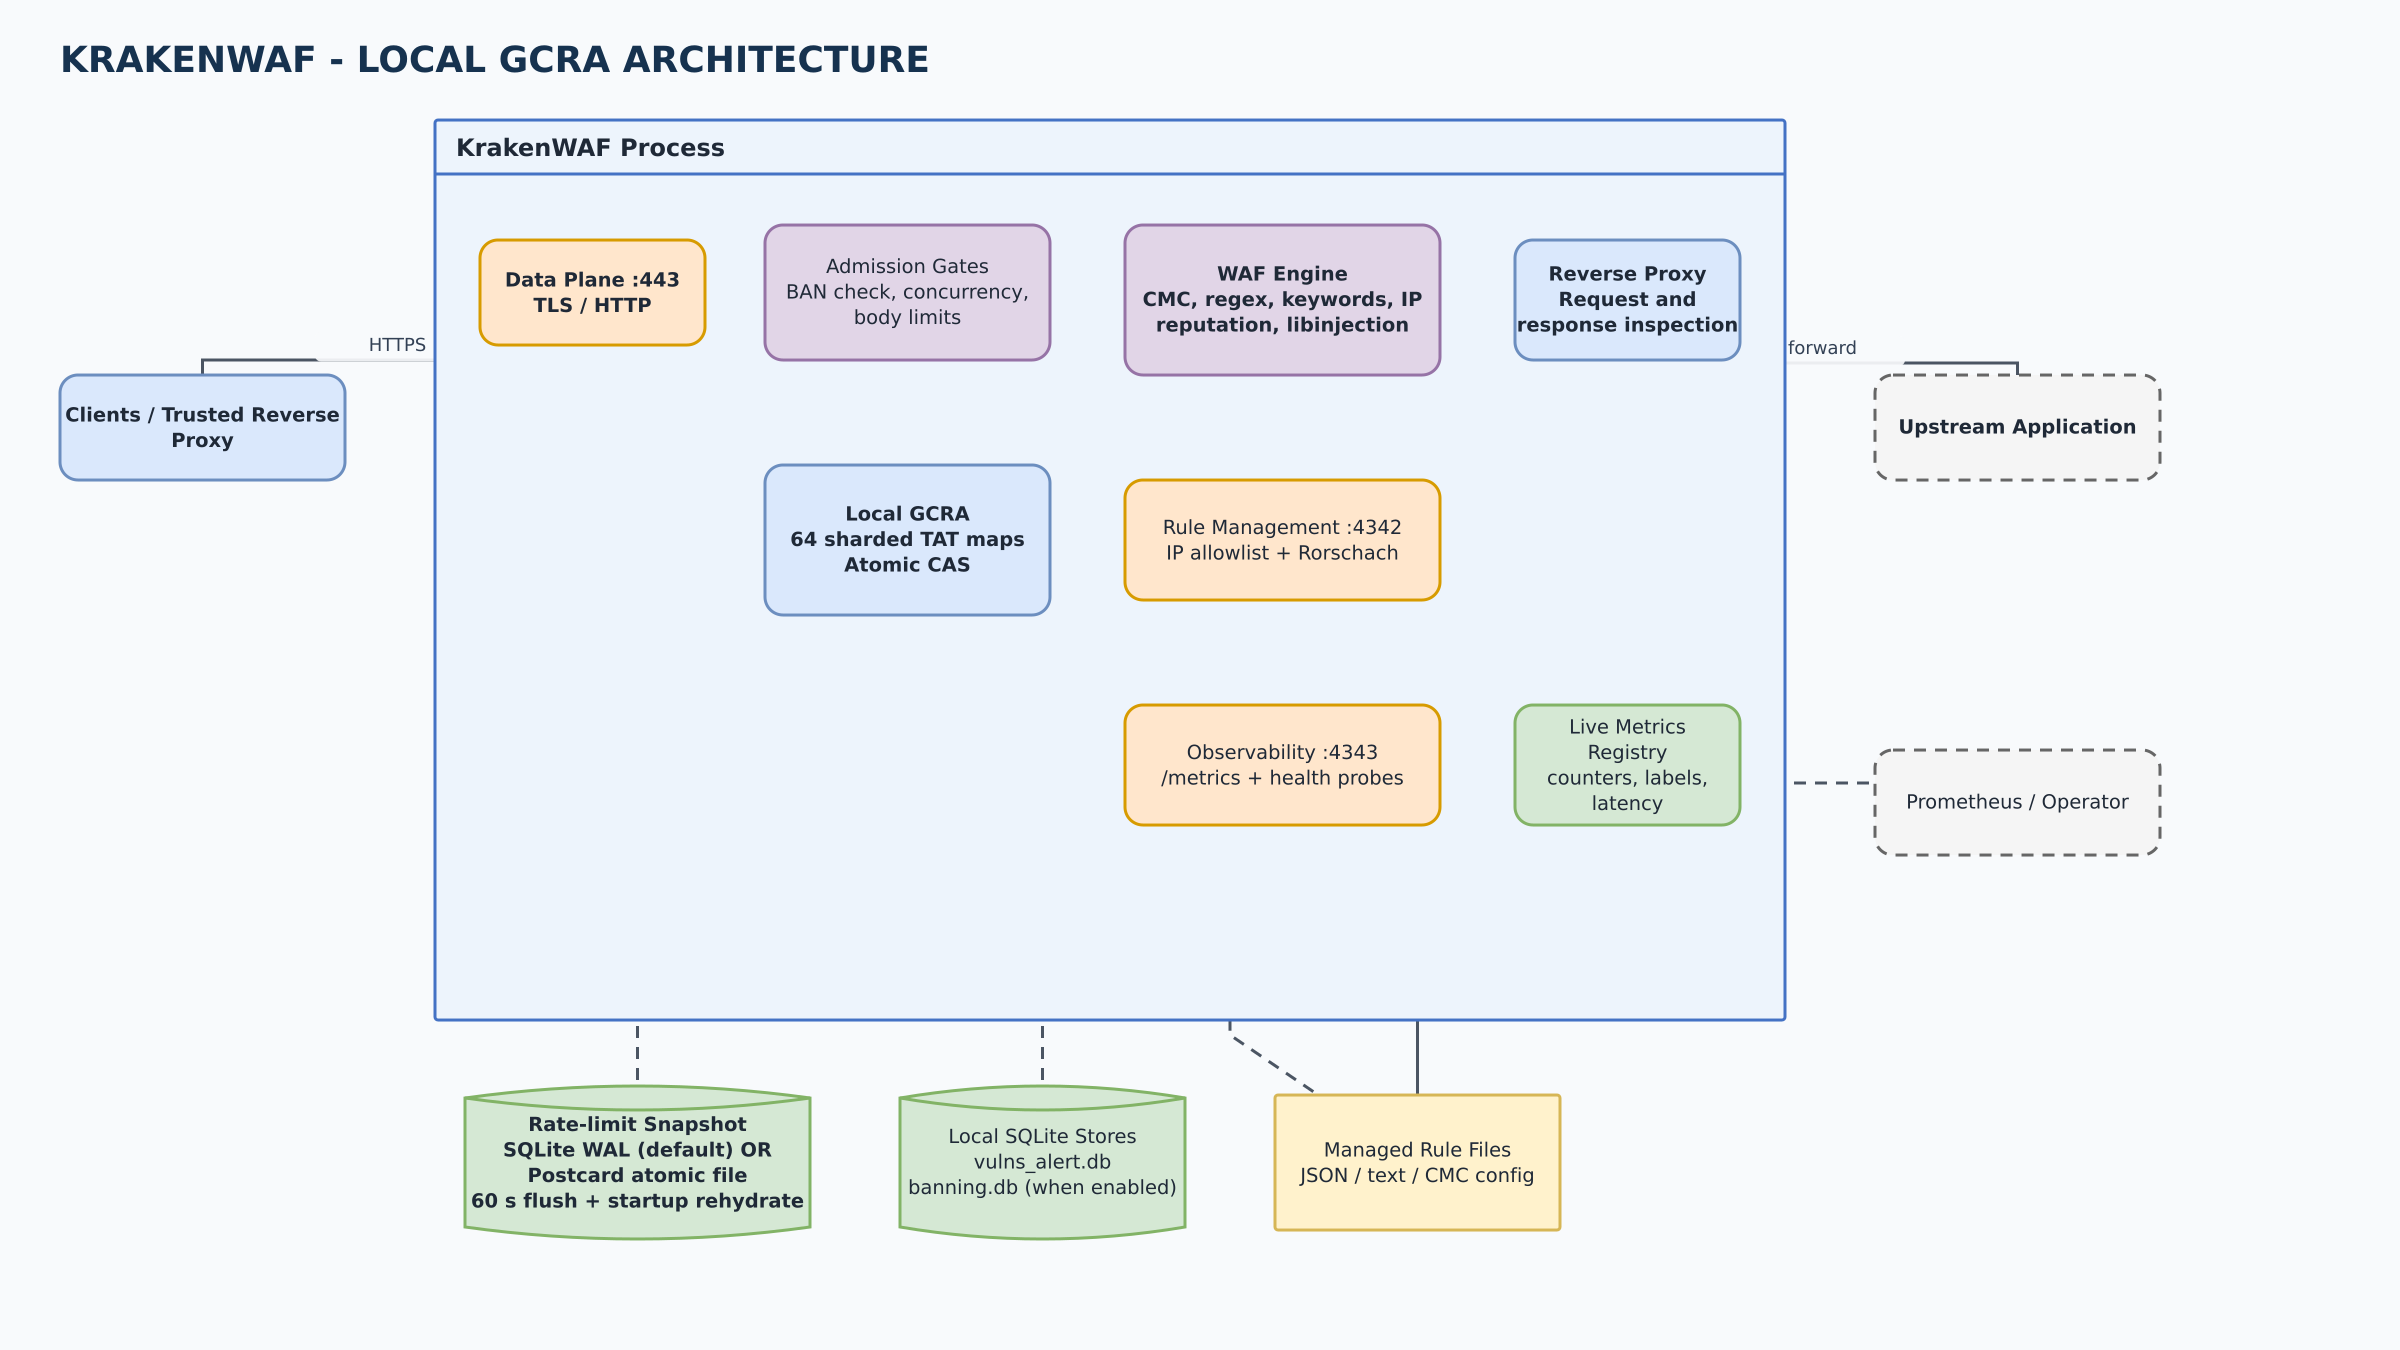
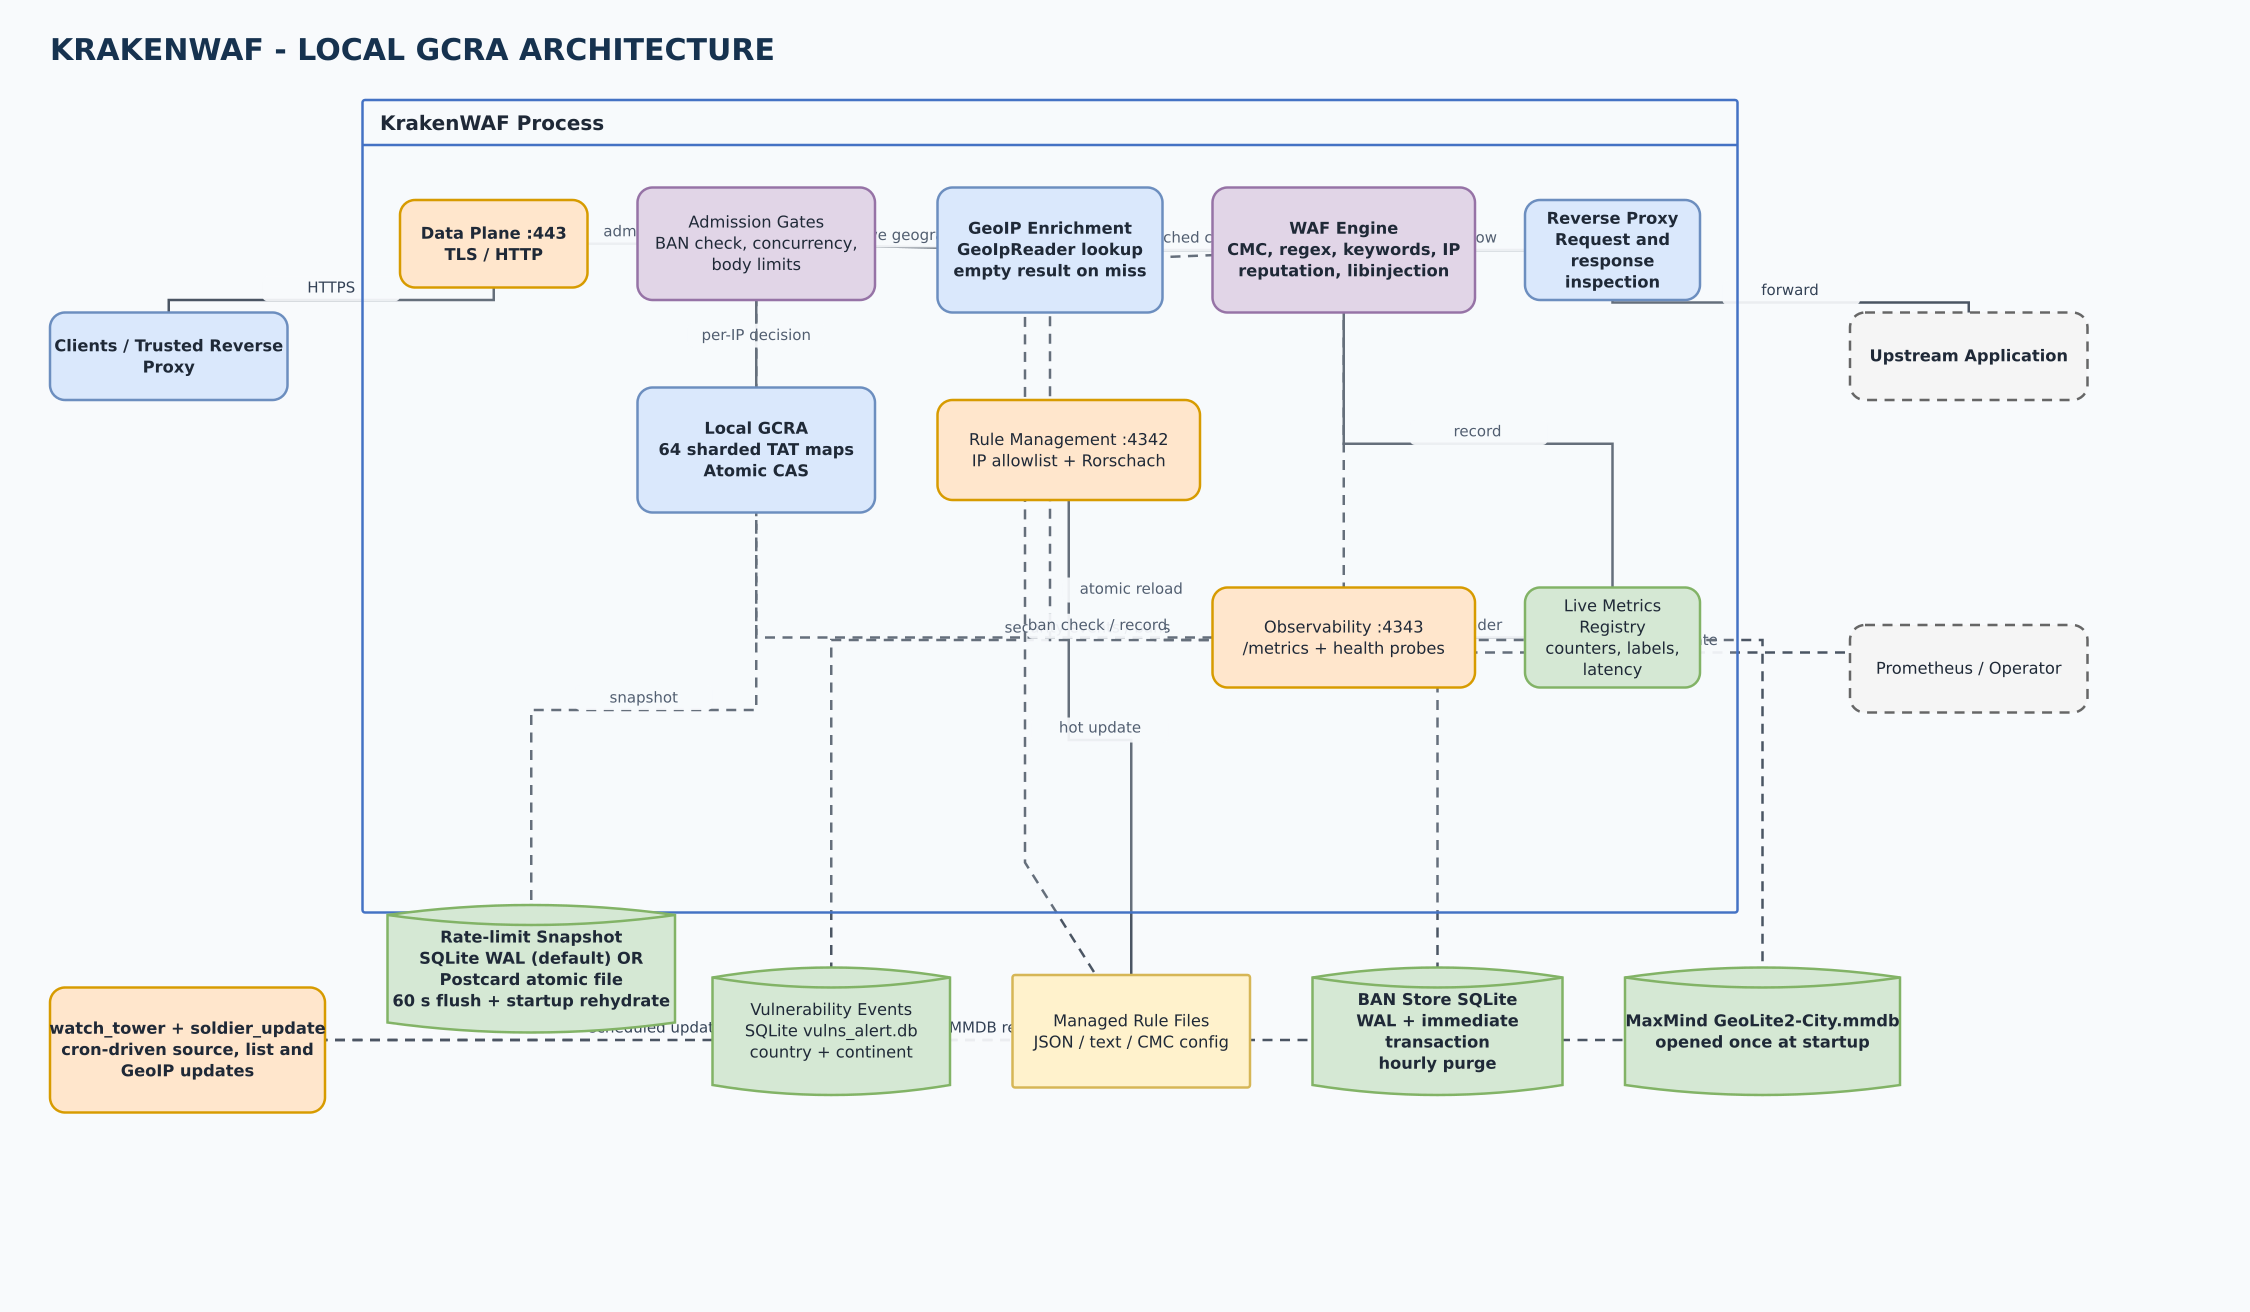
Insert drawio resources

diff --git a/docs/visual_architecture.md b/docs/visual_architecture.md
@@ -1,6 +1,6 @@
 # KrakenWAF visual architecture
 
-These diagrams describe the runtime architecture at commit `6497ad8` (v2.43.0).
+These diagrams describe the runtime architecture at commit `a0a9679`.
 All labels are in English and the source is editable in draw.io.
 
 > The algorithm implemented by KrakenWAF is **GCRA** (Generic Cell Rate
@@ -17,6 +17,10 @@ All labels are in English and the source is editable in draw.io.
 | GCRA admission | Local and Redis admission decisions, including backend failure policy | [PNG](diagrams/krakenwaf-gcra-flow.png) | [draw.io](diagrams/krakenwaf-gcra-flow.drawio) |
 | Rule management | Allowlist and Rorschach gates, CMC updates, atomic rule replacement, and rollback | [PNG](diagrams/krakenwaf-rule-management-flow.png) | [draw.io](diagrams/krakenwaf-rule-management-flow.drawio) |
 | Metrics and health | Runtime collection, observability access gates, GCRA, Prometheus rendering, and probe exemptions | [PNG](diagrams/krakenwaf-metrics-flow.png) | [draw.io](diagrams/krakenwaf-metrics-flow.drawio) |
+| GeoIP and MaxMind | Runtime enrichment, local MMDB lookup, scheduled download, atomic replacement, and restart boundary | [PNG](diagrams/krakenwaf-geoip-architecture.png) | [draw.io](diagrams/krakenwaf-geoip-architecture.drawio) |
+| BAN system | Request short-circuit, asynchronous block accounting, SQLite/Redis selection, retention, and failure behavior | [PNG](diagrams/krakenwaf-ban-system.png) | [draw.io](diagrams/krakenwaf-ban-system.drawio) |
+| Update architecture | `watch_tower`, isolated update workers, external sources, local artifacts, journaling, and deployment activation | [PNG](diagrams/krakenwaf-update-scheduler-architecture.png) | [draw.io](diagrams/krakenwaf-update-scheduler-architecture.drawio) |
+| Update scheduler | Minute deduplication, cron matching, sequential `soldier_update` jobs, output files, and failure semantics | [PNG](diagrams/krakenwaf-scheduler-flow.png) | [draw.io](diagrams/krakenwaf-scheduler-flow.drawio) |
 
 ## Local GCRA with SQLite or Postcard
 
@@ -30,6 +34,13 @@ database; `--wal-mode postcard` writes an atomic-rename binary snapshot. These
 formats persist only rate-limit state. Security findings always use
 `logs/db/vulns_alert.db`, and local banning uses `logs/db/banning.db` when
 enabled.
+
+GeoIP is a local, read-only runtime dependency. `GeoLite2-City.mmdb` is opened
+once at startup and shared through an `Arc`; it is not queried over the network
+for each request. The local BAN backend is a separate SQLite WAL database with
+an immediate transaction for block accounting and an hourly stale-row purge.
+`watch_tower` and `soldier_update` are separate binaries, not background tasks
+inside the data-plane process.
 
 ## Distributed GCRA with Redis
 
@@ -46,6 +57,12 @@ Redis transport must use `rediss://`. Credentials are resolved file-first and
 then from environment variables. If Redis is unavailable, `redis.fail_open`
 selects allow or deny behavior; both paths emit warnings and dedicated
 Prometheus counters.
+
+The Redis pool is also reused by `RedisBanStore`, whose lookup and record
+operations have a 150 ms budget and fail open. Redis shares only rate-limit and
+BAN state. GeoIP readers, MMDB files, managed rules, metrics registries, and
+vulnerability databases remain replica-local and need an external distribution
+and restart strategy.
 
 ## Runtime flows
 
@@ -80,6 +97,62 @@ observability listener, IP restrictions run before bearer authentication.
 liveness and readiness probes are intentionally exempt from GCRA so orchestration
 checks cannot be throttled.
 
+## GeoIP and MaxMind lifecycle
+
+![KrakenWAF GeoIP architecture](diagrams/krakenwaf-geoip-architecture.png)
+
+After trusted-proxy resolution and the early BAN/concurrency gates, the proxy
+performs one local MaxMind prefix lookup and adds `country_name` and
+`continent_name` to `InspectionContext`. Invalid, private, loopback, link-local,
+missing, and undecodable entries produce empty fields without failing the
+request. Findings carry those fields into SQLite, JSONL, and the critical log.
+
+The update path is isolated from request processing. `soldier_update` loads
+file-first MaxMind credentials, downloads through the hardened updater client,
+enforces archive and extracted-file ceilings, writes a temporary file, calls
+`sync_all`, and atomically renames it over the final MMDB. The running reader
+does not hot-reload; activate new data with a restart or rolling restart. See
+[geoip.md](geoip.md).
+
+## BAN system
+
+![KrakenWAF BAN system](diagrams/krakenwaf-ban-system.png)
+
+`BanManager` is inert when banning is disabled. Otherwise it checks the
+effective IP before concurrency, WAF inspection, and upstream forwarding. A
+current ban returns HTTP 403 and does not increment the offender counters.
+Enforced WAF and rate-limit blocks call `record_block` asynchronously, so a new
+ban affects the next request rather than delaying the current response.
+
+At startup, the presence of the rate-limiter Redis configuration selects a
+shared `RedisBanStore`; otherwise `SqliteBanStore` opens
+`logs/db/banning.db`. Both track `banned_until`, `ban_count`, `occurrences`, and
+`last_event_at`, and both implement scanner fast-track plus progressive ban
+duration. Redis uses atomic Lua and key expiry; SQLite uses an immediate
+transaction and explicit hourly retention cleanup. See [banning.md](banning.md).
+
+## Update scheduler
+
+![KrakenWAF update and scheduler architecture](diagrams/krakenwaf-update-scheduler-architecture.png)
+
+The update architecture separates service supervision, cron orchestration,
+isolated update workers, external data sources, local artifacts, and runtime
+activation. `watch_tower` never downloads or writes assets itself; it launches
+the sibling `soldier_update` binary with a specific action. The worker owns
+network hardening, secret loading, validation, atomic file replacement, and
+update journaling.
+
+![KrakenWAF update scheduler](diagrams/krakenwaf-scheduler-flow.png)
+
+`watch_tower` wakes every 30 seconds but evaluates a local-time minute only
+once. On each new minute it reloads `conf/update.yaml`, parses the supported
+five-field cron expressions, and executes due `soldier_update` subprocesses
+sequentially in fixed order: source checkout, blocklist, FireHOL, Spamhaus, and
+MaxMind. Every action journals start/success/error records to
+`logs/updates/lastupdate.jsonl`. A malformed cron, configuration failure, or
+failed child process terminates the scheduler, so production deployments need
+a service supervisor with restart policy. See [scheduler.md](scheduler.md).
+
 ## Operational surfaces
 
 | Surface | Default | Protection | Main responsibility |
@@ -91,5 +164,6 @@ checks cannot be throttled.
 Prometheus output includes inspected and blocked totals, rate-limit hits,
 per-engine/module block labels, request latency, trace-context counters, and
 Redis fail-open/fail-closed counters. See [observability.md](observability.md),
-[rate_limit.md](rate_limit.md), and [rule_management.md](rule_management.md) for
-the full operational contracts.
+[rate_limit.md](rate_limit.md), [rule_management.md](rule_management.md),
+[banning.md](banning.md), [geoip.md](geoip.md), and [scheduler.md](scheduler.md)
+for the full operational contracts.

diff --git a/docs/scheduler.md b/docs/scheduler.md
@@ -1,0 +1,50 @@
+# Update scheduler
+
+The editable [update architecture](diagrams/krakenwaf-update-scheduler-architecture.drawio)
+([PNG preview](diagrams/krakenwaf-update-scheduler-architecture.png)) separates
+processes, external dependencies, artifacts, and activation boundaries. The
+editable [scheduler flow](diagrams/krakenwaf-scheduler-flow.drawio)
+([PNG preview](diagrams/krakenwaf-scheduler-flow.png)) shows the control flow.
+
+## Process model
+
+`watch_tower` is a separate Tokio binary. It sleeps for 30 seconds and uses a
+`YYYY-MM-DDTHH:MM` key to evaluate each local-time minute only once. At the
+start of a new minute it reloads `conf/update.yaml`, validates every configured
+five-field cron expression, and collects matching jobs in this fixed order:
+
+1. `soldier_update --kraken-update`
+2. `soldier_update --addr-list blocklist`
+3. `soldier_update --addr-list firehol`
+4. `soldier_update --addr-list spamhaus`
+5. `soldier_update --addr-list maxmind-geo`, when `maxmind-geo.active` is true
+
+Jobs execute sequentially as child processes in the configured repository
+root. This avoids overlapping writes from one scheduler instance, but multiple
+independent `watch_tower` processes are not coordinated by a distributed lock.
+Run one scheduler per writable checkout unless the deployment supplies its own
+leader election and asset distribution.
+
+## Failure contract
+
+Configuration parse errors, invalid cron values, process-spawn failures, and
+non-zero `soldier_update` exits propagate from `run_watch_tower`. The scheduler
+then exits instead of silently skipping a broken update. Production service
+units should therefore use an explicit restart policy and alert on repeated
+failures.
+
+Each `soldier_update` invocation appends a structured `started`, `success`, or
+`error` record to `logs/updates/lastupdate.jsonl`. Failures are also written to
+the updater error log. Secrets are loaded only by the jobs that require them;
+they are never stored in `conf/update.yaml`.
+
+## Runtime activation
+
+Downloaded address lists and managed files are local filesystem assets. In a
+multi-replica deployment they must be distributed to every replica. MaxMind
+updates use bounded extraction, a temporary file, `sync_all`, and atomic rename,
+but the running `GeoIpReader` retains the database opened at startup. Apply a
+new MMDB with a restart or rolling restart.
+
+The scheduler is an update-plane component. It does not share Redis state and
+does not run inside the KrakenWAF request-processing process.

diff --git a/CHANGELOG.md b/CHANGELOG.md
@@ -7,6 +7,26 @@
 
 ### Added
 
+- **Complete draw.io architecture documentation suite.** Added editable
+  `.drawio` sources and PNG previews under `docs/diagrams/`, indexed by
+  `docs/visual_architecture.md`. The suite covers the single-node SQLite/Postcard
+  deployment, multi-replica Redis deployment, request processing, local and
+  distributed GCRA admission, metrics and health, and Rorschach-protected rule
+  management.
+- **GeoIP and BAN subsystem diagrams.** Added a MaxMind lifecycle architecture
+  showing startup-only MMDB loading, per-request local enrichment, hardened
+  scheduled download, atomic replacement, and the rolling-restart boundary.
+  Added a BAN lifecycle diagram showing the early request short-circuit,
+  asynchronous block accounting, scanner fast-track, progressive duration,
+  SQLite WAL transactions and retention cleanup, and Redis Lua/TTL behavior
+  with its 150 ms fail-open contract.
+- **Update and scheduler architecture plus flowchart.** Added separate views for
+  process supervision, `watch_tower`, isolated `soldier_update` workers,
+  external source and secret boundaries, generated local artifacts, update
+  journaling, multi-replica distribution, minute deduplication, fixed job order,
+  sequential execution, and scheduler termination on configuration or child
+  process failure. Added `docs/scheduler.md` and cross-links from the GeoIP and
+  banning references.
 - **Spamhaus DQS lookup cache.** A bounded, TTL-expiring, lock-free cache keyed
   by `(client IP, zone)` now backs the per-request DQS reputation check. Without
   it, every request from a not-yet-seen IP forced a fresh DNS-over-TLS lookup on

diff --git a/docs/geoip.md b/docs/geoip.md
@@ -1,5 +1,8 @@
 # GeoIP Enrichment — MaxMind GeoLite2-City
 
+Architecture and lifecycle diagram: [GeoIP and MaxMind flow](diagrams/krakenwaf-geoip-architecture.drawio)
+([PNG preview](diagrams/krakenwaf-geoip-architecture.png)).
+
 KrakenWaf enriches every security event with the **country** and **continent**
 of the source IP address using the MaxMind GeoLite2-City database.  The lookup
 is performed once per request (before WAF inspection) and the result is

diff --git a/docs/banning.md b/docs/banning.md
@@ -1,5 +1,8 @@
 # Banning subsystem
 
+Architecture and lifecycle diagram: [SQLite/Redis BAN system](diagrams/krakenwaf-ban-system.drawio)
+([PNG preview](diagrams/krakenwaf-ban-system.png)).
+
 KrakenWaf 2.31.0 introduces a first-class **BAN list** that keeps repeat
 offenders (and confirmed scanners) away from the protected origin
 without ever reaching the WAF inspection pipeline.
